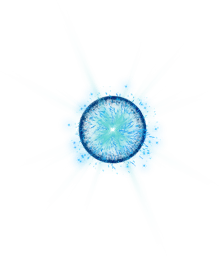
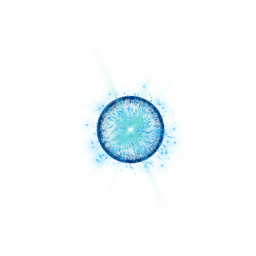
Updates

Changed region(s): [[0.3, 0.3438, 0.7364, 0.6875], [0.5455, 0.3125, 0.5727, 0.3438]]

diff --git a/index.html b/index.html
@@ -2,4 +2,4 @@
                 padding: 0;
                 margin: 0;
                 overflow: hidden;
-            }</style></head><body><div id="root"></div><script src="main.20fc98f90ecb1dc2cc6a.js"></script></body></html>
+            }</style><script defer="defer" src="main.9fb70bd257539c69cd9f.js"></script></head><body><div id="root"></div></body></html>